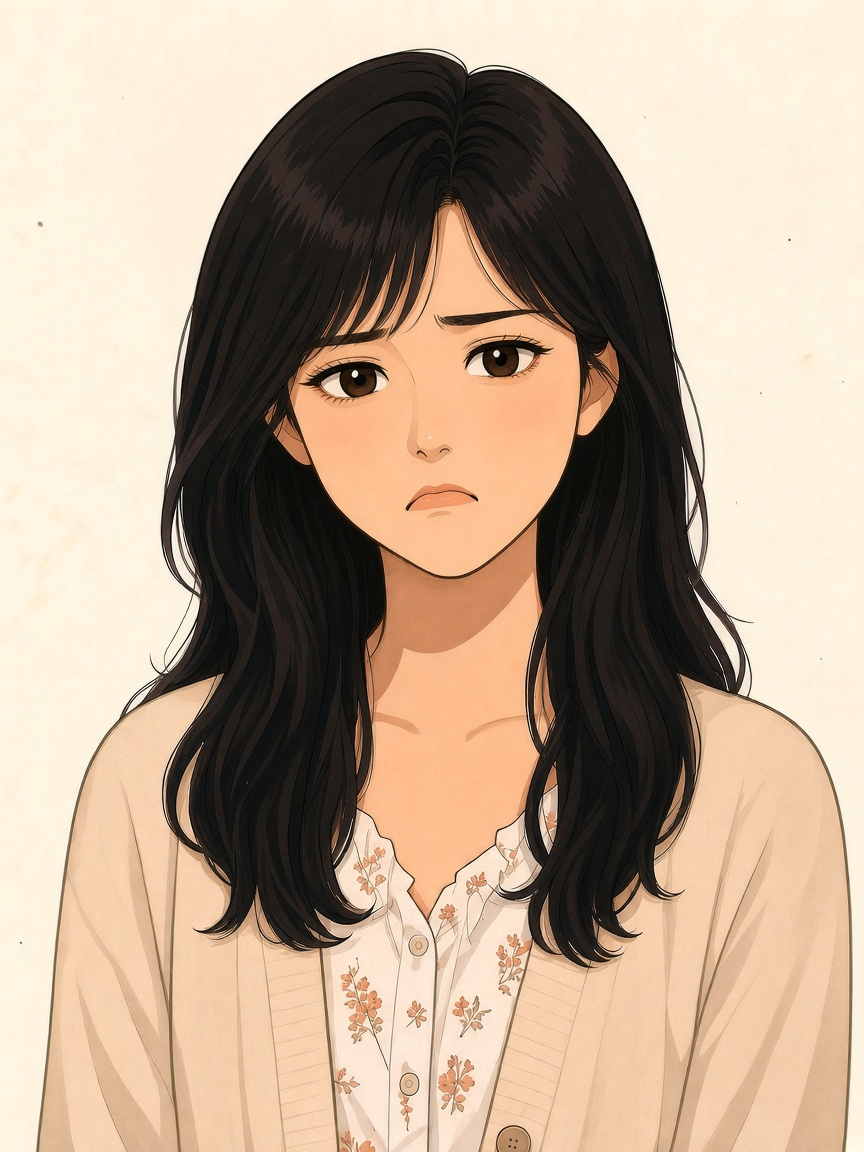
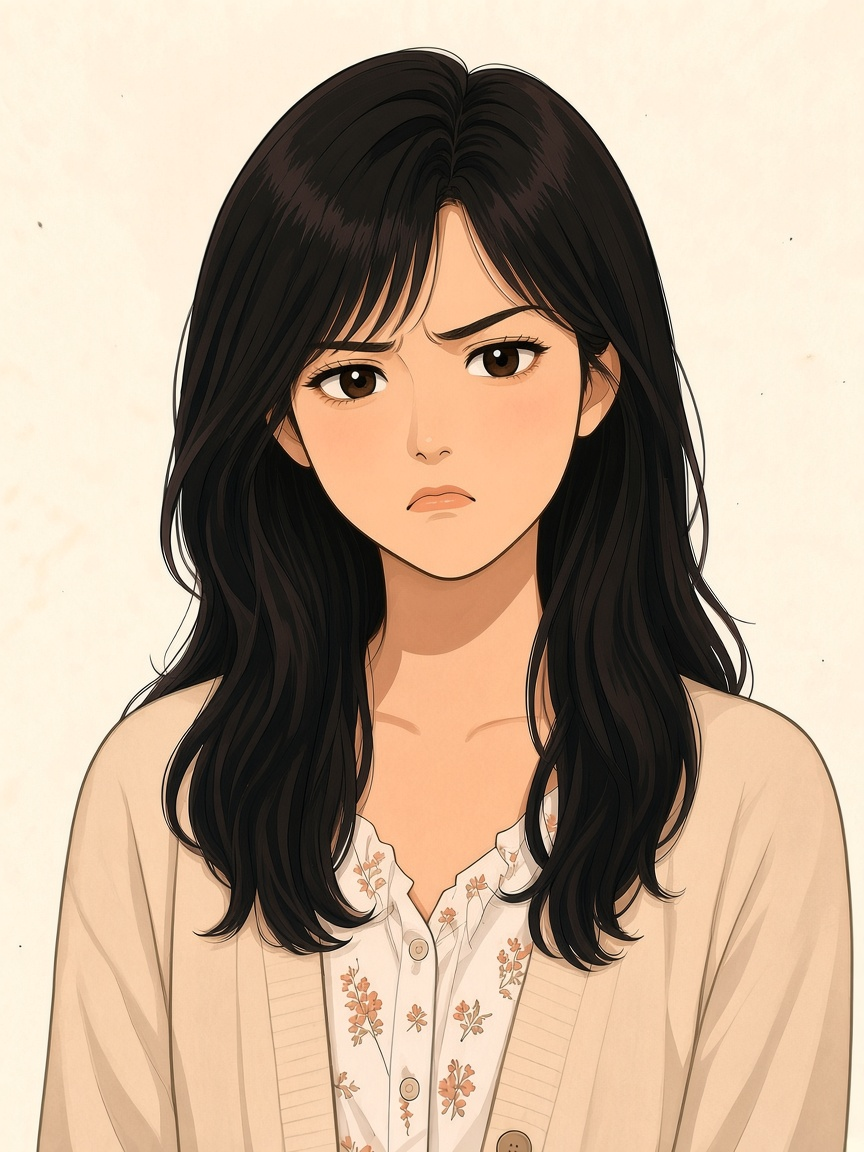
Soft: Soft A③ so frown Soft nit (#42)
Soft≠PASS · 唔 tip LIVE · 唔抬 ?v=/SAVE 仍 19w · 89–92 HOLD

PNG-only Soft tip: so_jiyan_bust_frown 微加夾眉 (MD5 9105f75b). default／smile／sil／other busts untouched. Do not merge Soft A② cream／CSS／index.

diff --git a/assets/story/era_stars/MANIFEST.md b/assets/story/era_stars/MANIFEST.md
@@ -4,7 +4,7 @@
 > **Brief：** `content/ART_BRIEF_MVP_ERA_STARS_v1.md`  
 > **LOOKS：** `content/PLAN_CHAR_LOOKS_REF_v1.md` §C  
 > **Pipeline：** cursor **GenerateImage**（refs `hero_awi.jpg`＋`char_hero_bust_default.png`）→ Pillow cover-crop **864×1152** PNG  
-> **狀態：** **Soft tip 2026-11-05** — **luk leather v5b**＋**liu chow-vibe v10**＋**yip starlet-v3**＋**so jade-v4**＋**ngai kara-v5**（各 bust×3）。5 人 ×3 表情＝15 live bust。ngai kara-v2 已由 kara-v5 取代，唔再係 live。**Soft nits expr** 已換 so smile／luk smile／ngai×3（bak `bak_pre_soft_nits_expr_20261105/` 唔入本 PR）。**so energy Soft nit** 已換 default＋smile（frown 未動；bak 唔入本 PR）。**ngai age Soft nit** 已換×3（kara-v5 低馬尾＋navy zip 鎖；bak 唔入本 PR）。**silhouettes v2** 5／5 `*_silhouette_far.png` 已入 Soft（bak 唔入本 PR）。**sil Soft polish×3** 已換 yip／so／luk `*_silhouette_far.png`（liu sil 未動；ngai sil 當時未動；bak `bak_pre_silhouette_soft_polish_20261105/` 唔入本 PR）。**ngai zip sil Soft nit** 已換 `ngai_wingnaam_silhouette_far.png`（高領 zip／低馬尾／理領；bak `bak_pre_ngai_zip_sil_soft_nit_20261105/` 唔入本 PR）。**yip／liu smile↔default Soft nit** 已換 yip／liu bust default＋smile（yip frown 未動；bak `bak_pre_yip_liu_smile_default_soft_nit_20261105/` 唔入本 PR）。**liu frown Soft nit** 已換 `liu_bingxing_bust_frown.png`（舊 `11582108`；bak `bak_pre_liu_frown_soft_nit_20261105/` 唔入本 PR）。**yip energy Soft nit** 已換 `yip_manji` bust default＋smile（frown `9d7e2b8e` 未動；bak `bak_pre_yip_energy_soft_nit_20261105/` 唔入本 PR）。**so／yip frown Soft nit** 已換 `so_jiyan_bust_frown.png`（MD5 `dbe0ce32`；舊 `f0c0347e`）＋`yip_manji_bust_frown.png`（MD5 `d50275e8`；舊 `9d7e2b8e`；default／smile 未動；bak `bak_pre_so_yip_frown_soft_nit_20261105/` 唔入本 PR）。**yip wink Soft nit** 已換 `yip_manji` bust default＋smile（MD5 `fe28eb9b`／`86a75894`；舊 energy Soft tip `08384068`／`f1688fb4`；frown 當時 `d50275e8`；bak `bak_pre_yip_wink_soft_nit_20261105/` 唔入本 PR）。**sil 光邊 Soft polish** 已換 era×5 `*_silhouette_far.png`（同 core×6；淡暖 rim＋淡 halo；深心 fill `(18,18,20)`；bak `bak_pre_sil_light_edge_soft_polish_20261105/` 唔入本 PR）。**so／yip frown polish Soft nit** 已換 `so_jiyan_bust_frown.png`（MD5 `4e9d521c`；舊 Soft tip `dbe0ce32`）＋`yip_manji_bust_frown.png`（MD5 `33152c22`；舊 Soft tip `d50275e8`；default／smile 未動；bak `bak_pre_so_yip_frown_polish_soft_nit_20261105/` 唔入本 PR）。**sil shape Soft nit** 已換 yip／so／luk／ngai `*_silhouette_far.png`（MD5 `ba8ad339`／`2602dda9`／`022489bc`／`c0f0d41e`；liu sil `4bbf6e7f` 未動；core／bust 未動；bak `bak_pre_sil_shape_soft_nit_20261105/` 唔入本 PR）。**sil rim／halo Soft polish** 已換 era×5＋core×6 `*_silhouette_far.png`（cream rim／漫射／halo；唔改 shape；era MD5 `483cec70`／`523f0c91`／`855f00f5`／`526c01f5`／`359acd81`；bak `bak_pre_sil_rim_halo_soft_polish_20261105/` 唔入本 PR）。**Soft A① sil zip／領口 Soft nit** 已換 ngai／luk `*_silhouette_far.png`（MD5 `3eab83b2`／`e3dcc24c`；prior rim／halo `526c01f5`／`855f00f5`；yip／so／liu／core／bust 未動；bak `bak_pre_sil_zip_collar_soft_nit_20261105/` 唔入本 PR）。**Soft A② sil cream 略深 rim Soft polish** 已換 era×5＋core×6 `*_silhouette_far.png`（warm RIM `[178,162,140]`／rim_strength 0.66／depth 5.5／halo α peak 20；solid Jaccard 1.0；era MD5 `68c78473`／`aa4b7a65`／`55495916`／`884a6812`／`bfc8ef4c`；bak `bak_pre_sil_cream_rim_soft_polish_20261105/` 唔入本 PR）。挑眉 `raise_brow` 後排、唔動。Soft≠PASS；**唔 tip LIVE**；**1989–1992 HOLD**；`?v=` 仍 `19w`；SAVE `starVolunteer_map_v19w`
+> **狀態：** **Soft tip 2026-11-05** — **luk leather v5b**＋**liu chow-vibe v10**＋**yip starlet-v3**＋**so jade-v4**＋**ngai kara-v5**（各 bust×3）。5 人 ×3 表情＝15 live bust。ngai kara-v2 已由 kara-v5 取代，唔再係 live。**Soft nits expr** 已換 so smile／luk smile／ngai×3（bak `bak_pre_soft_nits_expr_20261105/` 唔入本 PR）。**so energy Soft nit** 已換 default＋smile（frown 未動；bak 唔入本 PR）。**ngai age Soft nit** 已換×3（kara-v5 低馬尾＋navy zip 鎖；bak 唔入本 PR）。**silhouettes v2** 5／5 `*_silhouette_far.png` 已入 Soft（bak 唔入本 PR）。**sil Soft polish×3** 已換 yip／so／luk `*_silhouette_far.png`（liu sil 未動；ngai sil 當時未動；bak `bak_pre_silhouette_soft_polish_20261105/` 唔入本 PR）。**ngai zip sil Soft nit** 已換 `ngai_wingnaam_silhouette_far.png`（高領 zip／低馬尾／理領；bak `bak_pre_ngai_zip_sil_soft_nit_20261105/` 唔入本 PR）。**yip／liu smile↔default Soft nit** 已換 yip／liu bust default＋smile（yip frown 未動；bak `bak_pre_yip_liu_smile_default_soft_nit_20261105/` 唔入本 PR）。**liu frown Soft nit** 已換 `liu_bingxing_bust_frown.png`（舊 `11582108`；bak `bak_pre_liu_frown_soft_nit_20261105/` 唔入本 PR）。**yip energy Soft nit** 已換 `yip_manji` bust default＋smile（frown `9d7e2b8e` 未動；bak `bak_pre_yip_energy_soft_nit_20261105/` 唔入本 PR）。**so／yip frown Soft nit** 已換 `so_jiyan_bust_frown.png`（MD5 `dbe0ce32`；舊 `f0c0347e`）＋`yip_manji_bust_frown.png`（MD5 `d50275e8`；舊 `9d7e2b8e`；default／smile 未動；bak `bak_pre_so_yip_frown_soft_nit_20261105/` 唔入本 PR）。**yip wink Soft nit** 已換 `yip_manji` bust default＋smile（MD5 `fe28eb9b`／`86a75894`；舊 energy Soft tip `08384068`／`f1688fb4`；frown 當時 `d50275e8`；bak `bak_pre_yip_wink_soft_nit_20261105/` 唔入本 PR）。**sil 光邊 Soft polish** 已換 era×5 `*_silhouette_far.png`（同 core×6；淡暖 rim＋淡 halo；深心 fill `(18,18,20)`；bak `bak_pre_sil_light_edge_soft_polish_20261105/` 唔入本 PR）。**so／yip frown polish Soft nit** 已換 `so_jiyan_bust_frown.png`（當時 MD5 `4e9d521c`；舊 Soft tip `dbe0ce32`）＋`yip_manji_bust_frown.png`（MD5 `33152c22`；舊 Soft tip `d50275e8`；default／smile 未動；bak `bak_pre_so_yip_frown_polish_soft_nit_20261105/` 唔入本 PR）。**sil shape Soft nit** 已換 yip／so／luk／ngai `*_silhouette_far.png`（MD5 `ba8ad339`／`2602dda9`／`022489bc`／`c0f0d41e`；liu sil `4bbf6e7f` 未動；core／bust 未動；bak `bak_pre_sil_shape_soft_nit_20261105/` 唔入本 PR）。**sil rim／halo Soft polish** 已換 era×5＋core×6 `*_silhouette_far.png`（cream rim／漫射／halo；唔改 shape；era MD5 `483cec70`／`523f0c91`／`855f00f5`／`526c01f5`／`359acd81`；bak `bak_pre_sil_rim_halo_soft_polish_20261105/` 唔入本 PR）。**Soft A① sil zip／領口 Soft nit** 已換 ngai／luk `*_silhouette_far.png`（MD5 `3eab83b2`／`e3dcc24c`；prior rim／halo `526c01f5`／`855f00f5`；yip／so／liu／core／bust 未動；bak `bak_pre_sil_zip_collar_soft_nit_20261105/` 唔入本 PR）。**Soft A② sil cream 略深 rim Soft polish** 已換 era×5＋core×6 `*_silhouette_far.png`（warm RIM `[178,162,140]`／rim_strength 0.66／depth 5.5／halo α peak 20；solid Jaccard 1.0；era MD5 `68c78473`／`aa4b7a65`／`55495916`／`884a6812`／`bfc8ef4c`；bak `bak_pre_sil_cream_rim_soft_polish_20261105/` 唔入本 PR）。**Soft A③ so frown 微加夾眉 Soft nit** 已換 `so_jiyan_bust_frown.png`（MD5 `9105f75b`；舊 frown polish `4e9d521c`；default／smile／sil 未動；bak `bak_pre_so_frown_anger_soft_nit_20261105/` 唔入本 PR）。挑眉 `raise_brow` 後排、唔動。Soft≠PASS；**唔 tip LIVE**；**1989–1992 HOLD**；`?v=` 仍 `19w`；SAVE `starVolunteer_map_v19w`
 
 ## Style-lock MD5（installed live）
 
@@ -20,7 +20,7 @@
 | `ngai_wingnaam_bust_frown.png` | `5df4f5fa6c6317e3e0a189b0eb5bc814` |
 | `ngai_wingnaam_bust_smile.png` | `8f1abdaf2f4a3db803c950e424c30fc0` |
 | `so_jiyan_bust_default.png` | `2cc1a57050e1bf20d847d87938d1c1d0` |
-| `so_jiyan_bust_frown.png` | `4e9d521cabd366de927b0df04ba1387a` |
+| `so_jiyan_bust_frown.png` | `9105f75bbd43bc3659156f3f9ffbb0be` |
 | `so_jiyan_bust_smile.png` | `e57ab12a1329850c0b544a92fdd2ea46` |
 | `yip_manji_bust_default.png` | `fe28eb9b2098b60e04edb6e8b4b32451` |
 | `yip_manji_bust_frown.png` | `33152c22a1b937932f1455cb450be9fa` |
@@ -32,7 +32,7 @@
 |---|---|---|---|---|
 | `luk_baakyin` | 陸柏言 | `*_bust_{default,smile,frown}.png` + `*_silhouette_far.png`（**sil Soft polish**＋**光邊**＋**shape**＋**rim／halo**＋**zip／領口**＋**cream rim**） | 864×1152 | **leather v5b**＋**smile Soft nit 2026-11-05**（露齒酒窩）＋**frown Soft nit 2026-11-05**（深 V 皺眉＋下撇嘴；MD5 `d379b322`）。default `f0bc02d8`／smile `202a6200` 唔動。sil Soft polish（quiff↑）＋**光邊 Soft polish**（當時 MD5 `45d03628`；prior `194f29f2`）＋**sil shape Soft nit**（quiff↑；當時 MD5 `022489bc`；prior 光邊 `45d03628`）＋**sil rim／halo Soft polish**（當時 MD5 `855f00f5`；prior shape `022489bc`）＋**Soft A① sil zip／領口 Soft nit**（理領／領口負空間↑；當時 MD5 `e3dcc24c`；prior rim／halo `855f00f5`）＋**Soft A② cream 略深 rim Soft polish**（MD5 `55495916`；prior Soft A① `e3dcc24c`）。bak `bak_pre_luk_leather_v5/`＋`bak_pre_soft_nits_expr_20261105/`＋`bak_pre_luk_frown_soft_nit_20261105/`＋`bak_pre_sil_shape_soft_nit_20261105/`＋`bak_pre_sil_rim_halo_soft_polish_20261105/`＋`bak_pre_sil_zip_collar_soft_nit_20261105/`＋`bak_pre_sil_cream_rim_soft_polish_20261105/` 留盤，唔入本 PR |
 | `yip_manji` | 葉敏芝 | bust×3 + sil **Soft polish**＋**光邊**＋**shape**＋**rim／halo**＋**cream rim** | 864×1152 | **starlet-v3 2026-11-05**：露肩 dusty-rose；邱淑貞／張敏氣質（禁抄臉）；GenerateImage。**smile↔default Soft nit 2026-11-05**（當時 default `b338280b`／smile `6e7b1a2b`）。**energy Soft nit 2026-11-05**（當時 default 嬌俏眨眼 MD5 `08384068`／smile 露齒眼閃↑ MD5 `f1688fb4`）。**frown Soft nit 2026-11-05**（雙目睜下撇／咬唇；當時 MD5 `d50275e8`；舊 `9d7e2b8e`）。**wink Soft nit 2026-11-05**（default 雙目睜＋閉唇微 smirk 收斂強 wink MD5 `fe28eb9b`／smile 露齒暖笑 MD5 `86a75894`；舊 energy `08384068`／`f1688fb4`）。**frown polish Soft nit 2026-11-05**（雙目睜＋咬唇嬌俏敗興↑；MD5 `33152c22`；舊 Soft tip `d50275e8`；default／smile wink Soft tip `fe28eb9b`／`86a75894` 未動）。sil Soft polish（露肩／bare-arm）＋**光邊 Soft polish**（當時 MD5 `b29c5efc`；prior `41ef7a1f`）＋**sil shape Soft nit**（肩凹清；當時 MD5 `ba8ad339`；prior 光邊 `b29c5efc`）＋**sil rim／halo Soft polish**（當時 MD5 `483cec70`；prior shape `ba8ad339`）＋**Soft A② cream 略深 rim Soft polish**（MD5 `68c78473`；prior rim／halo `483cec70`）。bak `bak_pre_yip_starlet_v3/`＋`bak_pre_yip_liu_smile_default_soft_nit_20261105/`＋`bak_pre_yip_energy_soft_nit_20261105/`＋`bak_pre_so_yip_frown_soft_nit_20261105/`＋`bak_pre_yip_wink_soft_nit_20261105/`＋`bak_pre_so_yip_frown_polish_soft_nit_20261105/`＋`bak_pre_sil_shape_soft_nit_20261105/`＋`bak_pre_sil_rim_halo_soft_polish_20261105/`＋`bak_pre_sil_cream_rim_soft_polish_20261105/` 留盤，唔入本 PR |
-| `so_jiyan` | 蘇芷茵 | bust×3 + `*_silhouette_far.png`（**sil Soft polish**＋**光邊**＋**shape**＋**rim／halo**＋**cream rim**） | 864×1152 | **jade-v4**＋**energy Soft nit 2026-11-05**（default＋smile 更有精神／眼閃；MD5 `2cc1a570`／`e57ab12a`）。**frown Soft nit 2026-11-05**（夾眉下撇不高興對開 energy default／smile；當時 MD5 `dbe0ce32`；舊 `f0c0347e`）。**frown polish Soft nit 2026-11-05**（夾眉下撇保留、眉薄／怒感收約 5–10%；MD5 `4e9d521c`；舊 Soft tip `dbe0ce32`；default／smile energy Soft tip `2cc1a570`／`e57ab12a` 未動）。sil Soft polish（肘外＋手前）＋**光邊 Soft polish**（當時 MD5 `30fec574`；prior `720e3473`）＋**sil shape Soft nit**（叉腰手前可讀；當時 MD5 `2602dda9`；prior 光邊 `30fec574`）＋**sil rim／halo Soft polish**（當時 MD5 `523f0c91`；prior shape `2602dda9`）＋**Soft A② cream 略深 rim Soft polish**（MD5 `aa4b7a65`；prior rim／halo `523f0c91`）。bak `bak_pre_so_jade_v4/`＋`bak_pre_soft_nits_expr_20261105/`＋`bak_pre_so_energy_soft_nit_20261105/`＋`bak_pre_so_yip_frown_soft_nit_20261105/`＋`bak_pre_so_yip_frown_polish_soft_nit_20261105/`＋`bak_pre_sil_shape_soft_nit_20261105/`＋`bak_pre_sil_rim_halo_soft_polish_20261105/`＋`bak_pre_sil_cream_rim_soft_polish_20261105/` 留盤，唔入本 PR |
+| `so_jiyan` | 蘇芷茵 | bust×3 + `*_silhouette_far.png`（**sil Soft polish**＋**光邊**＋**shape**＋**rim／halo**＋**cream rim**） | 864×1152 | **jade-v4**＋**energy Soft nit 2026-11-05**（default＋smile 更有精神／眼閃；MD5 `2cc1a570`／`e57ab12a`）。**frown Soft nit 2026-11-05**（夾眉下撇不高興對開 energy default／smile；當時 MD5 `dbe0ce32`；舊 `f0c0347e`）。**frown polish Soft nit 2026-11-05**（夾眉下撇保留、眉薄／怒感收約 5–10%；當時 MD5 `4e9d521c`；舊 Soft tip `dbe0ce32`；default／smile energy Soft tip `2cc1a570`／`e57ab12a` 未動）＋**Soft A③ 微加夾眉 Soft nit 2026-11-05**（夾眉↑／眉心陰影略深／下撇保留；怒感↑約一檔；MD5 `9105f75b`；舊 polish frown `4e9d521c`）。sil Soft polish（肘外＋手前）＋**光邊 Soft polish**（當時 MD5 `30fec574`；prior `720e3473`）＋**sil shape Soft nit**（叉腰手前可讀；當時 MD5 `2602dda9`；prior 光邊 `30fec574`）＋**sil rim／halo Soft polish**（當時 MD5 `523f0c91`；prior shape `2602dda9`）＋**Soft A② cream 略深 rim Soft polish**（MD5 `aa4b7a65`；prior rim／halo `523f0c91`）。bak `bak_pre_so_jade_v4/`＋`bak_pre_soft_nits_expr_20261105/`＋`bak_pre_so_energy_soft_nit_20261105/`＋`bak_pre_so_yip_frown_soft_nit_20261105/`＋`bak_pre_so_yip_frown_polish_soft_nit_20261105/`＋`bak_pre_sil_shape_soft_nit_20261105/`＋`bak_pre_sil_rim_halo_soft_polish_20261105/`＋`bak_pre_sil_cream_rim_soft_polish_20261105/`＋`bak_pre_so_frown_anger_soft_nit_20261105/` 留盤，唔入本 PR |
 | `liu_bingxing` | 廖炳星 | bust×3 + sil **v2**＋**光邊**＋**rim／halo**＋**cream rim** | 864×1152 | **chow-vibe v10 2026-11-05**：花恤衫正面；周星馳氣質（禁抄臉）；GenerateImage。**smile↔default Soft nit 2026-11-05**（default 閉唇微翹 MD5 `f39379d5`／smile 露齒壞笑 MD5 `3b3c7fb4`）。**frown Soft nit 2026-11-05**（吃癟下撇＋夾眉；MD5 `82edc37f`；舊 `11582108`）。sil **光邊 Soft polish**（prior v2；當時 MD5 `4bbf6e7f`；v2 `1238929c`；sil shape 未 redo）＋**sil rim／halo Soft polish**（當時 MD5 `359acd81`；prior 光邊 `4bbf6e7f`）＋**Soft A② cream 略深 rim Soft polish**（MD5 `bfc8ef4c`；prior rim／halo `359acd81`）。bak `bak_pre_liu_chow_v10/`＋`bak_pre_yip_liu_smile_default_soft_nit_20261105/`＋`bak_pre_liu_frown_soft_nit_20261105/`＋`bak_pre_sil_rim_halo_soft_polish_20261105/`＋`bak_pre_sil_cream_rim_soft_polish_20261105/` 留盤，唔入本 PR |
 | `ngai_wingnaam` | 魏詠男 | bust×3 + sil **zip Soft nit**＋**光邊**＋**shape**＋**rim／halo**＋**zip／領口**＋**cream rim** | 864×1152 | **kara-v5**＋**age Soft nit 2026-11-05×3**（晚三十讀齡↑；低馬尾＋navy zip 統一；MD5 `09f79211`／`8f1abdaf`／`5df4f5fa`）。kara-v2 唔再係 live。sil zip Soft nit（高領 zip／低馬尾／理領；v2 `31555755`）＋**光邊 Soft polish**（當時 MD5 `79f2e144`；zip tip `899c7f7d`）＋**sil shape Soft nit**（高領 zip；當時 MD5 `c0f0d41e`；prior 光邊 `79f2e144`）＋**sil rim／halo Soft polish**（當時 MD5 `526c01f5`；prior shape `c0f0d41e`）＋**Soft A① sil zip／領口 Soft nit**（輕內部 zip 線＋領口負空間↑；低馬尾／高領 zip；唔做更誇張側馬尾；當時 MD5 `3eab83b2`；prior rim／halo `526c01f5`）＋**Soft A② cream 略深 rim Soft polish**（MD5 `884a6812`；prior Soft A① `3eab83b2`）。bak `bak_pre_ngai_kara_v5/`＋`bak_pre_soft_nits_expr_20261105/`＋`bak_pre_ngai_age_soft_nit_20261105/`＋`bak_pre_ngai_zip_sil_soft_nit_20261105/`＋`bak_pre_sil_shape_soft_nit_20261105/`＋`bak_pre_sil_rim_halo_soft_polish_20261105/`＋`bak_pre_sil_zip_collar_soft_nit_20261105/`＋`bak_pre_sil_cream_rim_soft_polish_20261105/` 留盤，唔入本 PR |
 
@@ -66,7 +66,7 @@
 ## Soft nits（唔擋；Soft≠PASS）
 
 1. `luk_baakyin` smile Soft nit **2026-11-05 已換**（露齒＋酒窩；MD5 `202a6200`）；**frown Soft nit 2026-11-05 已換**（深 V 皺眉＋鼻樑壓＋下撇嘴；MD5 `d379b322`；對開 default smirk／smile 露齒）。Soft nits（唔擋）：怒氣線可再強；眉峰 V 可再銳  
-2. `so_jiyan` **energy Soft nit 2026-11-05 已換** default＋smile（MD5 `2cc1a570`／`e57ab12a`；閉唇淺笑＋眼神／smile 露齒眼閃）。**frown Soft nit 2026-11-05 已換**（當時 MD5 `dbe0ce32`；舊 `f0c0347e`）＋**frown polish Soft nit 2026-11-05 已換**（MD5 `4e9d521c`；夾眉下撇保留、眉薄／怒感收約 5–10%；舊 Soft tip `dbe0ce32`）。Soft nits（唔擋）：default 嘴角仍偏親切微笑（可選再收、專推眼閃）；modern polish 線密度；default NEW RGB vs bak RGBA（尺寸／構圖 OK，記帳 only）；怒感若 QC 覺得過收／過軟可回微加夾眉；對開 yip／ngai 一眼分  
+2. `so_jiyan` **energy Soft nit 2026-11-05 已換** default＋smile（MD5 `2cc1a570`／`e57ab12a`；閉唇淺笑＋眼神／smile 露齒眼閃）。**frown Soft nit 2026-11-05 已換**（當時 MD5 `dbe0ce32`；舊 `f0c0347e`）＋**frown polish Soft nit 2026-11-05 已換**（當時 MD5 `4e9d521c`；夾眉下撇保留、眉薄／怒感收約 5–10%；舊 Soft tip `dbe0ce32`）＋**Soft A③ 微加夾眉 Soft nit 2026-11-05 已換**（MD5 `9105f75b`；夾眉↑／眉心陰影略深／下撇保留；舊 polish `4e9d521c`；default／smile 未動）。Soft nits（唔擋）：default 嘴角仍偏親切微笑（可選再收、專推眼閃）；線密度家族；default NEW RGB vs bak RGBA（尺寸／構圖 OK，記帳 only）；唔再追半檔眉心；對開 yip／ngai 一眼分  
 3. `ngai_wingnaam` **age Soft nit 2026-11-05 已換×3**（default／smile／frown MD5 `09f79211`／`8f1abdaf`／`5df4f5fa`；晚三十 cel 紋／顎線；kara-v5 低馬尾＋navy zip）。kara-v2 唔再係 live。Soft nits（唔擋）：smile 年齡線略重；default 可讀略過 38；髮絲 modern polish；zip vs brief sil（本輪未改 sil）  
 4. `yip_manji` **smile↔default Soft nit 2026-11-05 已換**（當時 MD5 `b338280b`／`6e7b1a2b`；default 更中性閉唇、smile 露齒更開）。**energy Soft nit 2026-11-05 已換** default＋smile（當時 MD5 `08384068`／`f1688fb4`；default 嬌俏眨眼＋閉唇嘴形清晰／咬唇－微 smirk；smile 更開／更暖露齒＋眼閃↑；對開 tip #30 `b338280b`／`6e7b1a2b`）。**frown Soft nit 2026-11-05 已換**（當時 MD5 `d50275e8`；舊 `9d7e2b8e`）＋**frown polish Soft nit 2026-11-05 已換**（MD5 `33152c22`；雙目睜＋咬唇嬌俏敗興↑；舊 Soft tip `d50275e8`）。**wink Soft nit 2026-11-05 已換** default＋smile（MD5 `fe28eb9b`／`86a75894`；雙目睜＋閉唇微 smirk 收斂強 wink；smile 露齒暖笑＋眼閃；舊 energy `08384068`／`f1688fb4`；本 PR 唔覆寫）。starlet-v3 露肩 dusty-rose 鎖。Soft nits（唔擋）：線密度／modern polish residual；可選再推 default 輕咬唇能量／再近阿偉 cel；咬唇角度／牙齒露出量可再微調  
 5. `liu_bingxing` **smile↔default Soft nit 2026-11-05 已換** default＋smile（MD5 `f39379d5`／`3b3c7fb4`；default 閉唇微翹、唔再露齒 smirk；smile 露齒壞笑）。**frown Soft nit 2026-11-05 已換**（MD5 `82edc37f`；吃癟下撇＋夾眉；對開 default 微翹／smile 露齒；舊 `11582108`）。chow-vibe v10 花恤衫鎖。yip frown 見第 4 項（polish `33152c22`；舊 Soft tip `d50275e8`）。Soft nits（唔擋）：下巴 hatch；吃癟弧略誇；線密度／modern polish  
@@ -84,10 +84,11 @@
 17. **sil rim／halo Soft polish 2026-11-05 已換 era×5＋core×6**（更深環境漫射 rim＋更闊更淡 halo；solid Jaccard 1.0 唔改 shape／wardrobe；當時 era MD5 `483cec70`／`523f0c91`／`855f00f5`／`526c01f5`／`359acd81`）。Soft nits（唔擋）：cream rim Soft A 後清；ngai／luk Soft A zip 當時進行中（由下一項接）。QC：統籌 Style PASS with nits。本 PR 唔併 #38／bust／CSS
 18. **Soft A① sil zip／領口 Soft nit 2026-11-05 已換** ngai／luk `*_silhouette_far.png`（MD5 `3eab83b2`／`e3dcc24c`；prior rim／halo `526c01f5`／`855f00f5`；yip／so／liu／core／bust 未動；重套 C rim／halo）。Soft nits（唔擋）：ngai 遠距帽歧義殘；luk 圖示化縫；cream Soft A② 當時進行中（由下一項接）。QC：統籌 Style PASS with nits。本 PR 唔併 #39／bust／CSS
 19. **Soft A② sil cream 略深 rim Soft polish 2026-11-05 已換 era×5＋core×6**（warm RIM `[178,162,140]`／rim_strength 0.66／depth 5.5／halo α peak 20；solid Jaccard 1.0 唔改 shape／wardrobe；era MD5 `68c78473`／`aa4b7a65`／`55495916`／`884a6812`／`bfc8ef4c`）。QC：統籌 Style PASS with nits。本 PR 唔併 #40／bust／CSS／Soft A③
+20. **Soft A③ so frown 微加夾眉 Soft nit 2026-11-05 已換** `so_jiyan_bust_frown.png`（MD5 `9105f75b`；prior frown polish `4e9d521c`；default `2cc1a570`／smile `e57ab12a`／sil `aa4b7a65`／yip frown `33152c22`／其他 bust 未動）。Soft nits（唔擋）：線密度家族；唔再追半檔眉心；Soft A 鏈 ①②③ 收口。QC：統籌 Style PASS with nits
 
 ## Gates
 
-Soft≠PASS｜唔 tip LIVE｜唔 wake iOS｜89–92 HOLD｜silhouettes v2 Soft tip（遠觀只限 Soft gate）｜sil Soft polish×3（yip／so／luk）｜ngai zip sil Soft nit（liu／yip／so／luk sil 未動）｜expr nits Soft tip｜so energy Soft nit（default＋smile；frown 未動）｜ngai age Soft nit×3｜yip／liu smile↔default Soft nit（default＋smile；yip frown 未動）｜liu frown Soft nit｜yip energy Soft nit（default＋smile；frown 未動）｜so／yip frown Soft nit（default／smile 未動）｜yip wink Soft nit（default＋smile `fe28eb9b`／`86a75894`；本 PR 唔覆寫）｜so／yip frown polish Soft nit（default／smile 未動）｜sil 光邊 Soft polish（era×5；同 core×6）｜sil shape Soft nit（yip／so／luk／ngai；liu／core／bust 未動）｜sil rim／halo Soft polish（era×5＋core×6；唔改 shape；bust／CSS／?v= 未動）｜Soft A① sil zip／領口 Soft nit（ngai＋luk；yip／so／liu／core／bust 未動；唔併 #39／bust／CSS）｜Soft A② sil cream 略深 rim Soft polish（era×5＋core×6；唔改 shape；bust／CSS／?v= 未動；唔併 #40／bust／CSS／Soft A③）｜raise_brow 後排｜`?v=` 仍 `19w`｜SAVE `starVolunteer_map_v19w`
+Soft≠PASS｜唔 tip LIVE｜唔 wake iOS｜89–92 HOLD｜silhouettes v2 Soft tip（遠觀只限 Soft gate）｜sil Soft polish×3（yip／so／luk）｜ngai zip sil Soft nit（liu／yip／so／luk sil 未動）｜expr nits Soft tip｜so energy Soft nit（default＋smile；frown 未動）｜ngai age Soft nit×3｜yip／liu smile↔default Soft nit（default＋smile；yip frown 未動）｜liu frown Soft nit｜yip energy Soft nit（default＋smile；frown 未動）｜so／yip frown Soft nit（default／smile 未動）｜yip wink Soft nit（default＋smile `fe28eb9b`／`86a75894`；本 PR 唔覆寫）｜so／yip frown polish Soft nit（default／smile 未動）｜sil 光邊 Soft polish（era×5；同 core×6）｜sil shape Soft nit（yip／so／luk／ngai；liu／core／bust 未動）｜sil rim／halo Soft polish（era×5＋core×6；唔改 shape；bust／CSS／?v= 未動）｜Soft A① sil zip／領口 Soft nit（ngai＋luk；yip／so／liu／core／bust 未動；唔併 #39／bust／CSS）｜Soft A② sil cream 略深 rim Soft polish（era×5＋core×6；唔改 shape；bust／CSS／?v= 未動；唔併 #40／bust／CSS／Soft A③）｜Soft A③ so frown 微加夾眉 Soft nit（so frown only；default／smile／sil／yip／其他 bust 未動）｜raise_brow 後排｜`?v=` 仍 `19w`｜SAVE `starVolunteer_map_v19w`
 
 ## Pack
 
@@ -138,6 +139,8 @@ Soft≠PASS｜唔 tip LIVE｜唔 wake iOS｜89–92 HOLD｜silhouettes v2 Soft t
 `/workspace/star-volunteer-web-sil-zip-collar-soft-nit.tar.gz`（只換 live ngai／luk `*_silhouette_far.png`；`bak_pre_sil_zip_collar_soft_nit_20261105/`、qa 唔入本 PR；yip／so／liu／core／bust／CSS／?v= 未動）
 
 `/workspace/star-volunteer-web-sil-cream-rim-soft-polish.tar.gz` MD5 `088cb66cbd7f7e1cd34bf302fe968a44`（只換 live era×5＋core×6 `*_silhouette_far.png`；`bak_pre_sil_cream_rim_soft_polish_20261105/`、compare／qa／REPORT 唔入本 PR；bust／CSS／?v= 未動；唔併 #40／bust／CSS／Soft A③）
+
+`/workspace/star-volunteer-web-so-frown-anger-soft-nit.tar.gz`（live tip `so-frown-a3-soft-tip-live.tar.gz`；只換 live `so_jiyan_bust_frown.png`；`bak_pre_so_frown_anger_soft_nit_20261105/`、qa／compare 唔入本 PR；default／smile／sil／其他 bust／CSS／?v= 未動）
 
 ## Related
 
@@ -288,3 +291,12 @@ Soft≠PASS｜唔 tip LIVE｜唔 wake iOS｜89–92 HOLD｜silhouettes v2 Soft t
 - 目標：cream 略深 rim／對比 Soft polish。略加深 warm RIM RGB `[122,116,104]→[178,162,140]`／rim_strength 0.42→0.66／depth 4.8→5.5；halo 保持淡（α peak 26→20；唔回 tip#32）；AA fringe warm bias；soft_max≤92。深心 fill exact `(18,18,20)`；solid Jaccard 1.0（唔改 shape／wardrobe）；無五官
 - QC：統籌 Style PASS with nits。Soft≠PASS｜唔 tip LIVE｜唔抬 ?v=｜89–92 HOLD
 - Pack：`/workspace/star-volunteer-web-sil-cream-rim-soft-polish.tar.gz` MD5 `088cb66cbd7f7e1cd34bf302fe968a44`（live-only 入本 PR；bak／qa 唔入）
+
+## Soft A③ so frown 微加夾眉 Soft nit 2026-11-05 (Asia/Hong_Kong)
+- 只換 live：`so_jiyan_bust_frown.png` MD5 `9105f75bbd43bc3659156f3f9ffbb0be`（864×1152 RGB）
+- 唔動：so default `2cc1a57050e1bf20d847d87938d1c1d0`；so smile `e57ab12a1329850c0b544a92fdd2ea46`；so silhouette `aa4b7a65a560f43867875dc4d8f220c3`（Soft A② cream）。yip frown `33152c22a1b937932f1455cb450be9fa` 未動。其他 bust、sil PNG、`index.html`、gigs、index Soft UI CSS、`?v=`、SAVE `starVolunteer_map_v19w`、`liveWeekGateStillActive` 未動
+- 對開 frown polish Soft tip：`4e9d521cabd366de927b0df04ba1387a`。bak `bak_pre_so_frown_anger_soft_nit_20261105/` 留盤、唔入本 PR
+- 目標：微加夾眉（夾眉↑／眉心陰影略深／下撇保留；怒感↑約一檔；唔猙獰）。jade-v4 wardrobe／pose／cel-shade lock。GenerateImage＋Pillow 864×1152 RGB
+- Soft nits（唔擋 Soft tip）：線密度家族；唔再追半檔眉心；Soft A 鏈 ①②③ 收口
+- QC：統籌 Style PASS with nits。Soft≠PASS｜唔 tip LIVE｜唔抬 ?v=｜89–92 HOLD
+- Pack：`/workspace/star-volunteer-web-so-frown-anger-soft-nit.tar.gz`（live tip `so-frown-a3-soft-tip-live.tar.gz`；live-only 入本 PR；bak／qa／compare 唔入）

diff --git a/assets/STYLE_CANON.md b/assets/STYLE_CANON.md
@@ -81,6 +81,8 @@
 
 - 2026-11-05 Soft A② sil cream 略深 rim／對比 Soft polish：era×5＋core×6 `*_silhouette_far.png`（對 C Soft polish 殘餘：cream 底 rim 近隱形；暗場優先已接受；唔永久放棄 cream；唔改 shape／wardrobe）。Era live MD5 `68c78473`／`aa4b7a65`／`55495916`／`884a6812`／`bfc8ef4c`（prior：yip rim／halo `483cec70`；so `523f0c91`；luk Soft A① `e3dcc24c`；ngai Soft A① `3eab83b2`；liu rim／halo `359acd81`）。Core live MD5 `6a0f9985`／`638e4f2d`／`dc9baf9f`／`ad22b50e`／`595d9c95`／`ec62dea1`（prior rim／halo `fe35b9c7`／`abd30eb1`／`e5426266`／`22e421fc`／`df71baa7`／`3aa128c0`）。Pillow／scipy EDT 略加深 warm RIM RGB `[122,116,104]→[178,162,140]`／rim_strength 0.42→0.66／depth 4.8→5.5；halo 保持淡（α peak 26→20；唔回 tip#32）；AA fringe warm bias；soft_max≤92；深心 fill `(18,18,20)` exact；solid Jaccard 1.0。bust／gigs／index Soft UI CSS／`?v=`／SAVE／`liveWeekGateStillActive` 未動。bak `era_stars|core/bak_pre_sil_cream_rim_soft_polish_20261105/` 留盤、唔入本 PR；pack `/workspace/star-volunteer-web-sil-cream-rim-soft-polish.tar.gz` MD5 `088cb66cbd7f7e1cd34bf302fe968a44`；QC：統籌 Style PASS with nits；Soft≠PASS；唔 tip LIVE；唔抬 `?v=`；89–92 HOLD。本 PR 唔併 #40／bust／CSS／Soft A③。
 
+- 2026-11-05 Soft A③ so frown 微加夾眉 Soft nit：只換 `so_jiyan_bust_frown`（live MD5 `9105f75b`；prior frown polish `4e9d521c`）。夾眉↑／眉心陰影略深／下撇保留（怒感↑約一檔；唔猙獰）。jade-v4 wardrobe／pose／cel-shade lock。default `2cc1a570`／smile `e57ab12a`／sil `aa4b7a65`（Soft A② cream）／yip frown `33152c22`／其他 bust／sil **未動**。GenerateImage＋Pillow 864×1152 RGB。bak `era_stars/bak_pre_so_frown_anger_soft_nit_20261105/` 留盤、唔入本 PR；pack `/workspace/star-volunteer-web-so-frown-anger-soft-nit.tar.gz`（live tip `so-frown-a3-soft-tip-live.tar.gz`）；Soft nits（唔擋）：線密度家族；唔再追半檔眉心；Soft A 鏈 ①②③ 收口；QC：統籌 Style PASS with nits；Soft≠PASS；唔 tip LIVE；唔抬 `?v=`；89–92 HOLD。
+
 ## raise_brow Soft nit（2026-11-05 Asia/Hong_Kong）
 
 - 已換：`char_hero_bust_raise_brow.png` MD5 `59dab337`；`char_cheung_bust_raise_brow.png` MD5 `8a8d01a9`（c1／story／dialog／npc 四路同 MD5）
@@ -248,3 +250,13 @@
 - bak `era_stars|core/bak_pre_sil_cream_rim_soft_polish_20261105/` 留盤、唔入本 PR。compare／qa／REPORT 唔入本 PR
 - QC：統籌 Style PASS with nits。Soft≠PASS；唔 tip LIVE；`?v=` 仍 `19w`；SAVE `starVolunteer_map_v19w`；89–92 HOLD
 - Pack：`/workspace/star-volunteer-web-sil-cream-rim-soft-polish.tar.gz` MD5 `088cb66cbd7f7e1cd34bf302fe968a44`（live-only 入本 PR；bak／qa 唔入）
+
+## Soft A③ so frown 微加夾眉 Soft nit（2026-11-05 Asia/Hong_Kong）
+
+- 只換：`story/era_stars/so_jiyan_bust_frown.png` MD5 `9105f75bbd43bc3659156f3f9ffbb0be`（864×1152 RGB）
+- 唔動：so default `2cc1a570`／smile `e57ab12a`；so silhouette `aa4b7a65`（Soft A② cream）。yip frown `33152c22` 未動。其他 bust、sil PNG、`index.html`、gigs、index Soft UI CSS 未動。`?v=` 仍 `19w`（本輪唔改碼、唔抬 `?v=`）。SAVE 仍 `starVolunteer_map_v19w`。`liveWeekGateStillActive` 未動（hard `true`）
+- 對開 frown polish Soft tip：`4e9d521c`。bak `era_stars/bak_pre_so_frown_anger_soft_nit_20261105/` 留盤、唔入本 PR
+- 目標：微加夾眉（夾眉↑／眉心陰影略深／下撇保留；怒感↑約一檔；唔猙獰）。jade-v4 wardrobe／pose／cel-shade lock。GenerateImage＋Pillow 864×1152 RGB
+- Soft nits（唔擋 Soft tip）：線密度家族；唔再追半檔眉心；Soft A 鏈 ①②③ 收口
+- QC：統籌 Style PASS with nits。Soft≠PASS；唔 tip LIVE；`?v=` 仍 `19w`；SAVE `starVolunteer_map_v19w`；89–92 HOLD
+- Pack：`/workspace/star-volunteer-web-so-frown-anger-soft-nit.tar.gz`（live tip `so-frown-a3-soft-tip-live.tar.gz`；live-only 入本 PR；bak／qa／compare 唔入）
